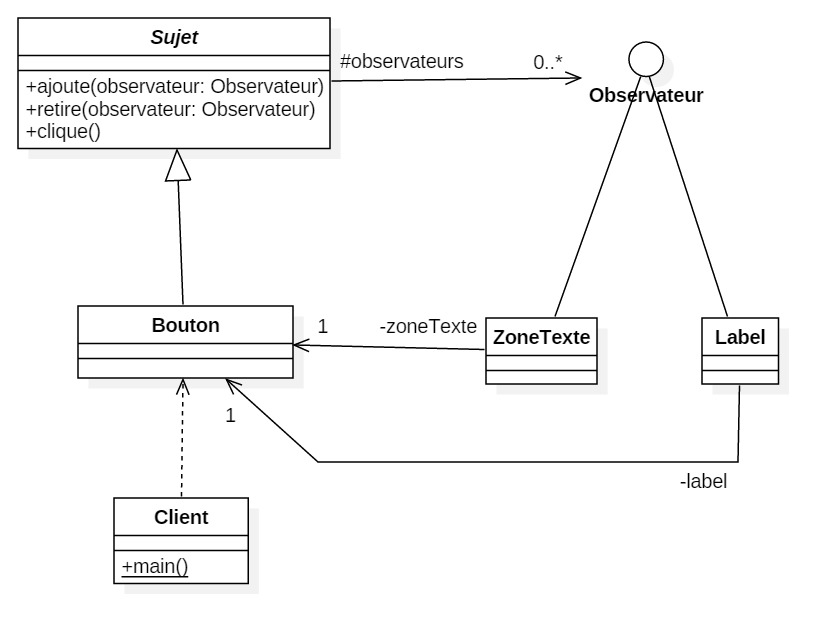
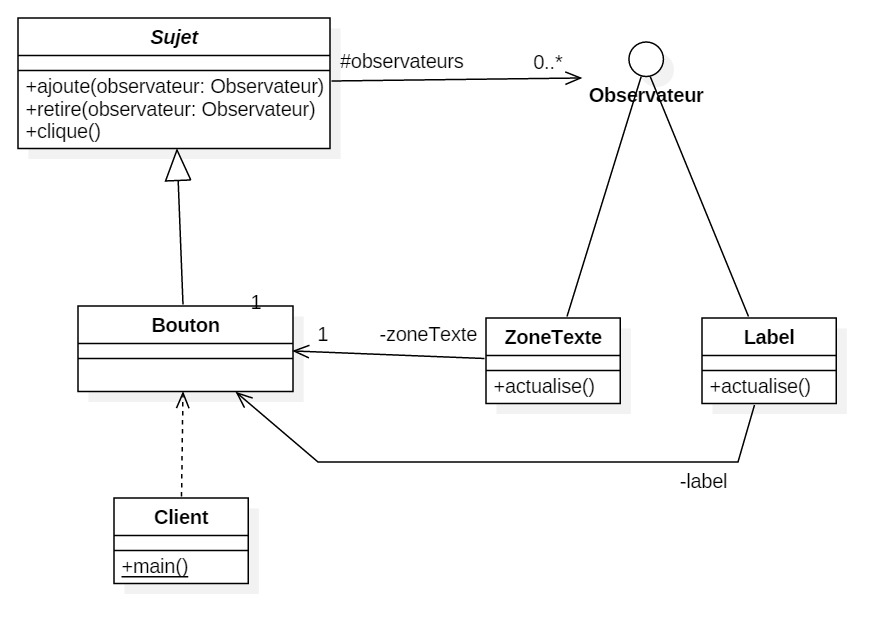
Update observer ex2

diff --git a/theorie/Design Pattern/src/observer/ex2/Client.java b/theorie/Design Pattern/src/observer/ex2/Client.java
@@ -6,6 +6,11 @@ package observer.ex2;
 public class Client {
 
     public static void main(String[] args) {
+        Label label = new Label();
+        ZoneTexte zoneTexte = new ZoneTexte();
         Bouton bouton = new Bouton();
+        bouton.add(label);
+        bouton.add(zoneTexte);
+        bouton.clique();
     }
 }

diff --git a/theorie/Design Pattern/src/observer/ex2/Bouton.java b/theorie/Design Pattern/src/observer/ex2/Bouton.java
@@ -5,11 +5,7 @@ package observer.ex2;
  */
 public class Bouton extends Sujet {
 
-    private Label label;
-    private ZoneTexte zoneTexte;
-
     public Bouton() {
-        label = new Label();
-        zoneTexte = new ZoneTexte();
+        
     }
 }

diff --git a/theorie/Design Pattern/src/observer/ex2/Sujet.java b/theorie/Design Pattern/src/observer/ex2/Sujet.java
@@ -22,6 +22,8 @@ public abstract class Sujet {
     }
 
     public void clique() {
-        
+        for (Observateur ob : observateurs) {
+            ob.actualise();
+        }    
     }
 }

diff --git a/theorie/Design Pattern/src/observer/ex2/ZoneTexte.java b/theorie/Design Pattern/src/observer/ex2/ZoneTexte.java
@@ -7,6 +7,6 @@ public class ZoneTexte implements Observateur {
 
     @Override
     public void actualise() {
-
+        System.out.println("Je suis une zone de texte.");
     }
 }

diff --git a/theorie/Design Pattern/src/observer/ex2/Label.java b/theorie/Design Pattern/src/observer/ex2/Label.java
@@ -7,6 +7,6 @@ public class Label implements Observateur {
 
     @Override
     public void actualise() {
-
+        System.out.println("Je suis un Label.");
     }
 }
